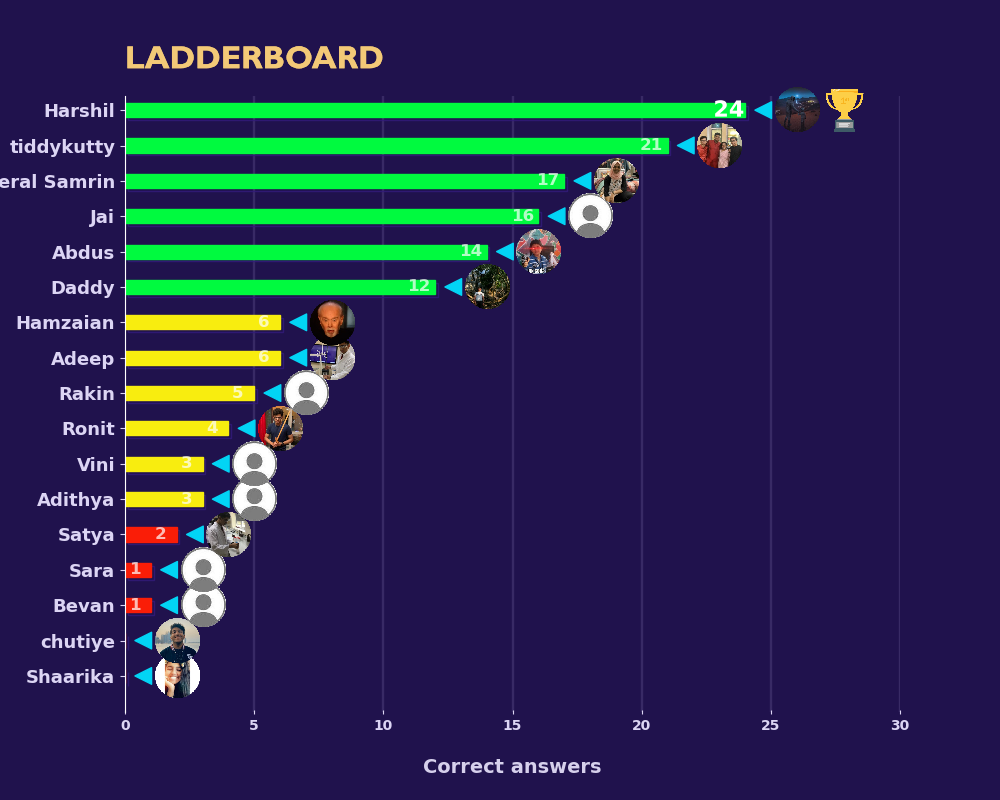
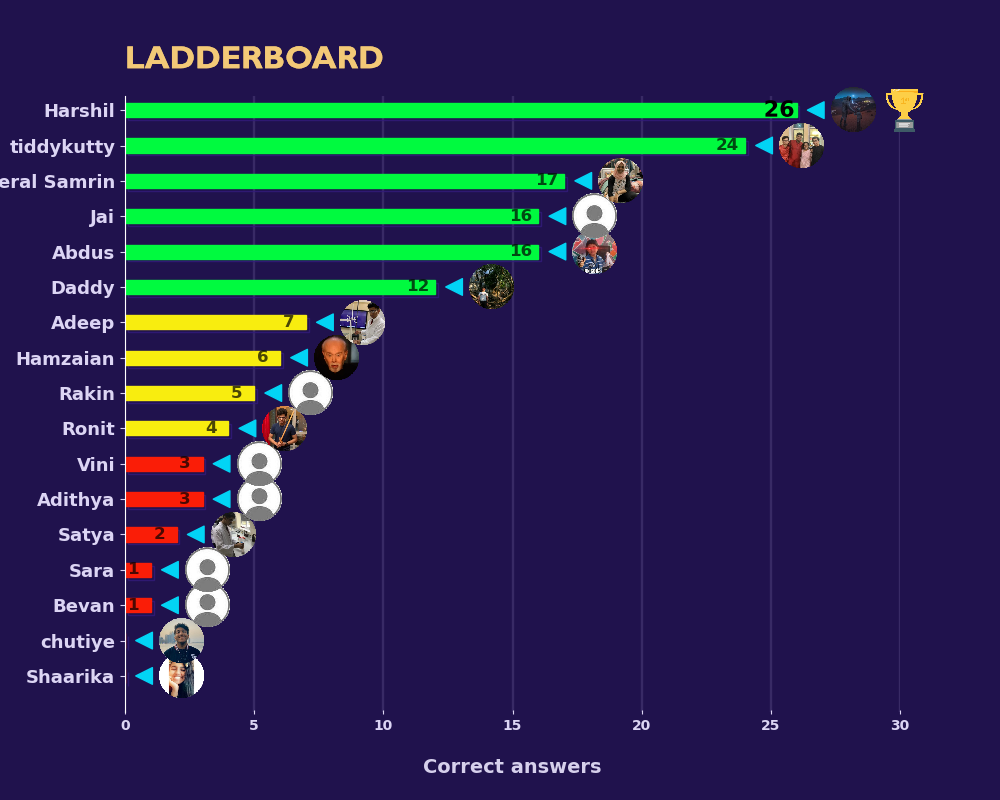
Bot now greets new members in TMS group
- Bot now greets new users with a link to knowing more about Telegram and its features.

- Changed text size in leaderboard so it fits in the bar.

diff --git a/main.py b/main.py
@@ -8,9 +8,9 @@ from telegram.ext import (CommandHandler, ConversationHandler, InlineQueryHandle
 # from telegram.utils.helpers import mention_html
 
 import inline
-from bot_funcs import media_reactor, morning_wisher, bday_wisher, conversation, delete_pin
+from bot_funcs import media_reactor, morning_wisher, bday_wisher, conversation, delete_pin, welcome
 from bot_funcs.commands import BotCommands as bc
-from constants import shanibot
+from constants import shanibot, group_ids
 from convos import bday, magic, nick, settings_gui, start
 from bot_funcs.quiz import send_quiz, receive_answer, timedout
 
@@ -177,7 +177,9 @@ dp.add_handler(settings_gui_handler)
 media_filters = (Filters.document | Filters.photo | Filters.video | Filters.voice | Filters.audio)
 edit_filter = Filters.update.edited_message
 pin_filter = Filters.status_update.pinned_message
+new_mem = Filters.status_update.new_chat_members
 
+dp.add_handler(MessageHandler(new_mem & Filters.chat(chat_id=group_ids['grade12']), callback=welcome.welcome))
 dp.add_handler(MessageHandler(media_filters, media_reactor.media))
 dp.add_handler(MessageHandler(pin_filter & Filters.user(username=shanibot), delete_pin.de_pin))
 dp.add_handler(MessageHandler(Filters.reply & Filters.group & ~ edit_filter, conversation.reply))

diff --git a/bot_funcs/welcome.py b/bot_funcs/welcome.py
@@ -1,0 +1,19 @@
+from telegram import Update
+from telegram.ext import CallbackContext
+from helpers.logger import logger
+
+
+def welcome(update: Update, context: CallbackContext) -> None:
+    """
+    Greets new users in the TMS group and also sends a link to the Introducing Telegram channel where they can
+    learn more about Telegram.
+    """
+    user = update.message.new_chat_members[0]
+    logger(message=f"{user.full_name} just joined the TMS group!")
+
+    context.bot.send_message(chat_id=update.effective_chat.id,
+                             text=f'Welcome to the TMS group '
+                                  f'{user.mention_html()}! I want you to know all Telegram like you say features okay? '
+                                  f'Check out this '
+                                  f'<a href="https://t.me/IntroducingTelegram">channel</a> to know everything!',
+                             parse_mode="HTML")

diff --git a/bot_funcs/quiz.py b/bot_funcs/quiz.py
@@ -295,7 +295,7 @@ def leaderboard(context) -> None:
         marks = bar.get_width()  # Get no. of correct answers of that guy
 
         if index == len(barlist) - 1:  # Make text bolder, add trophy for the guy who is #1
-            size = 16
+            size = 15
             alpha = 1  # alpha controls transparency
             trophy_scale = 0.16 * max(vals)  # Value obtained by experimenting
             effects = [patheffects.SimpleLineShadow(shadow_color='black', alpha=0.95), patheffects.Normal()]
@@ -304,7 +304,7 @@ def leaderboard(context) -> None:
             ax.add_artist(ab)  # Draws annotation
 
         else:
-            size = 12
+            size = 11
             alpha = 0.7
             effects = None
 
